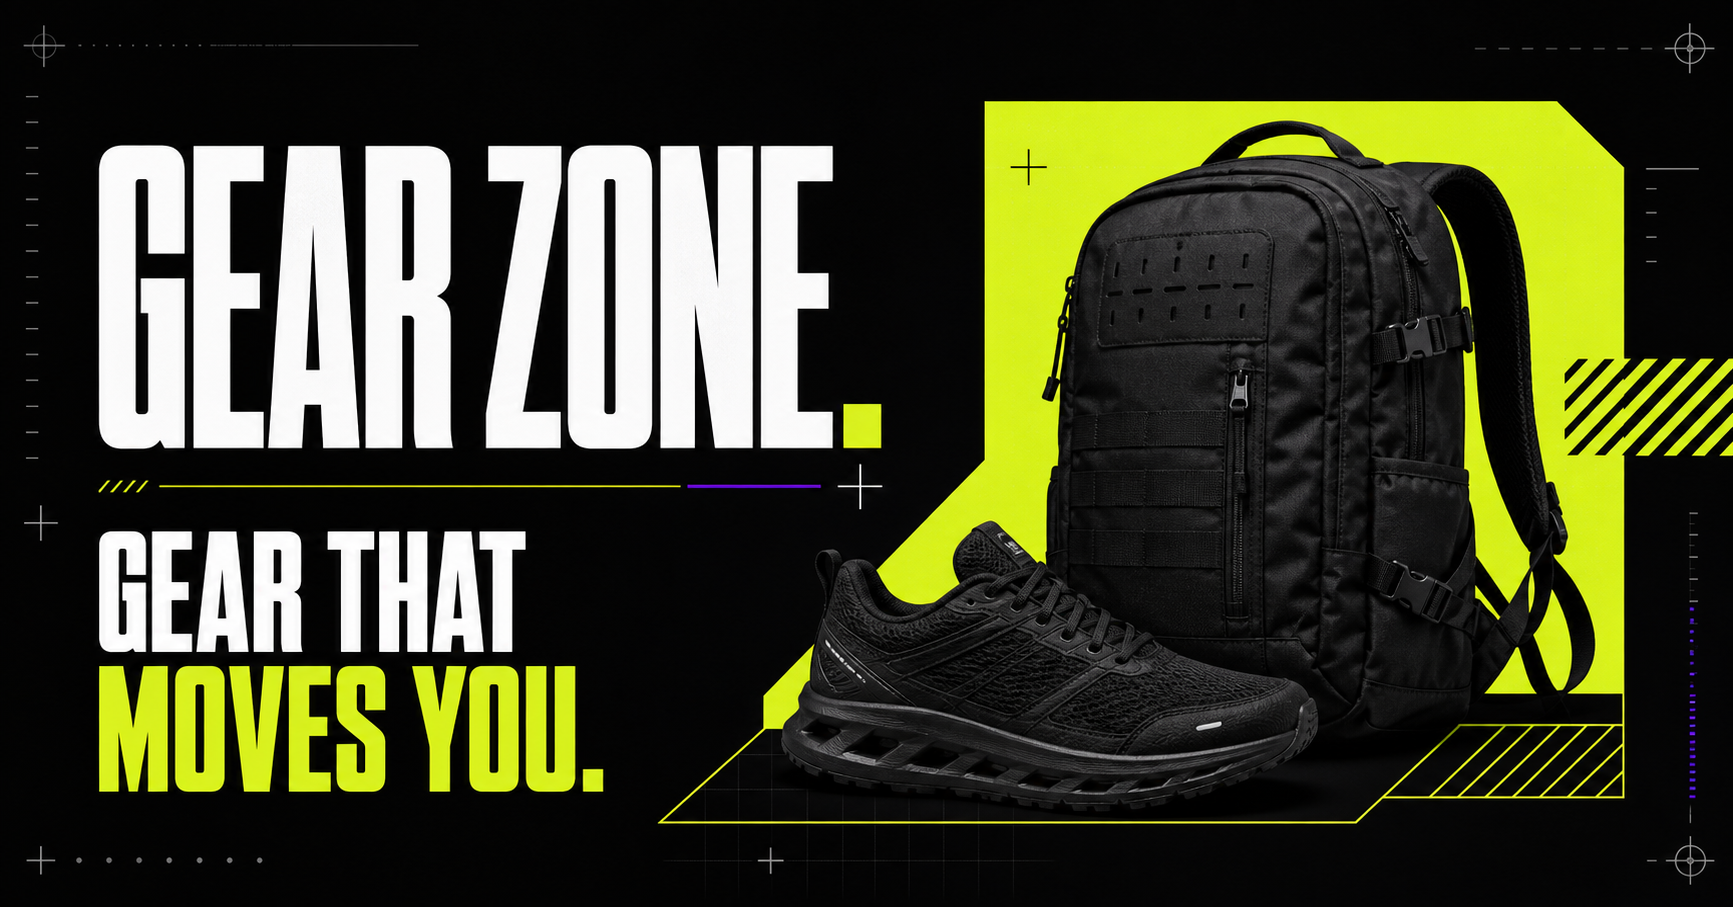
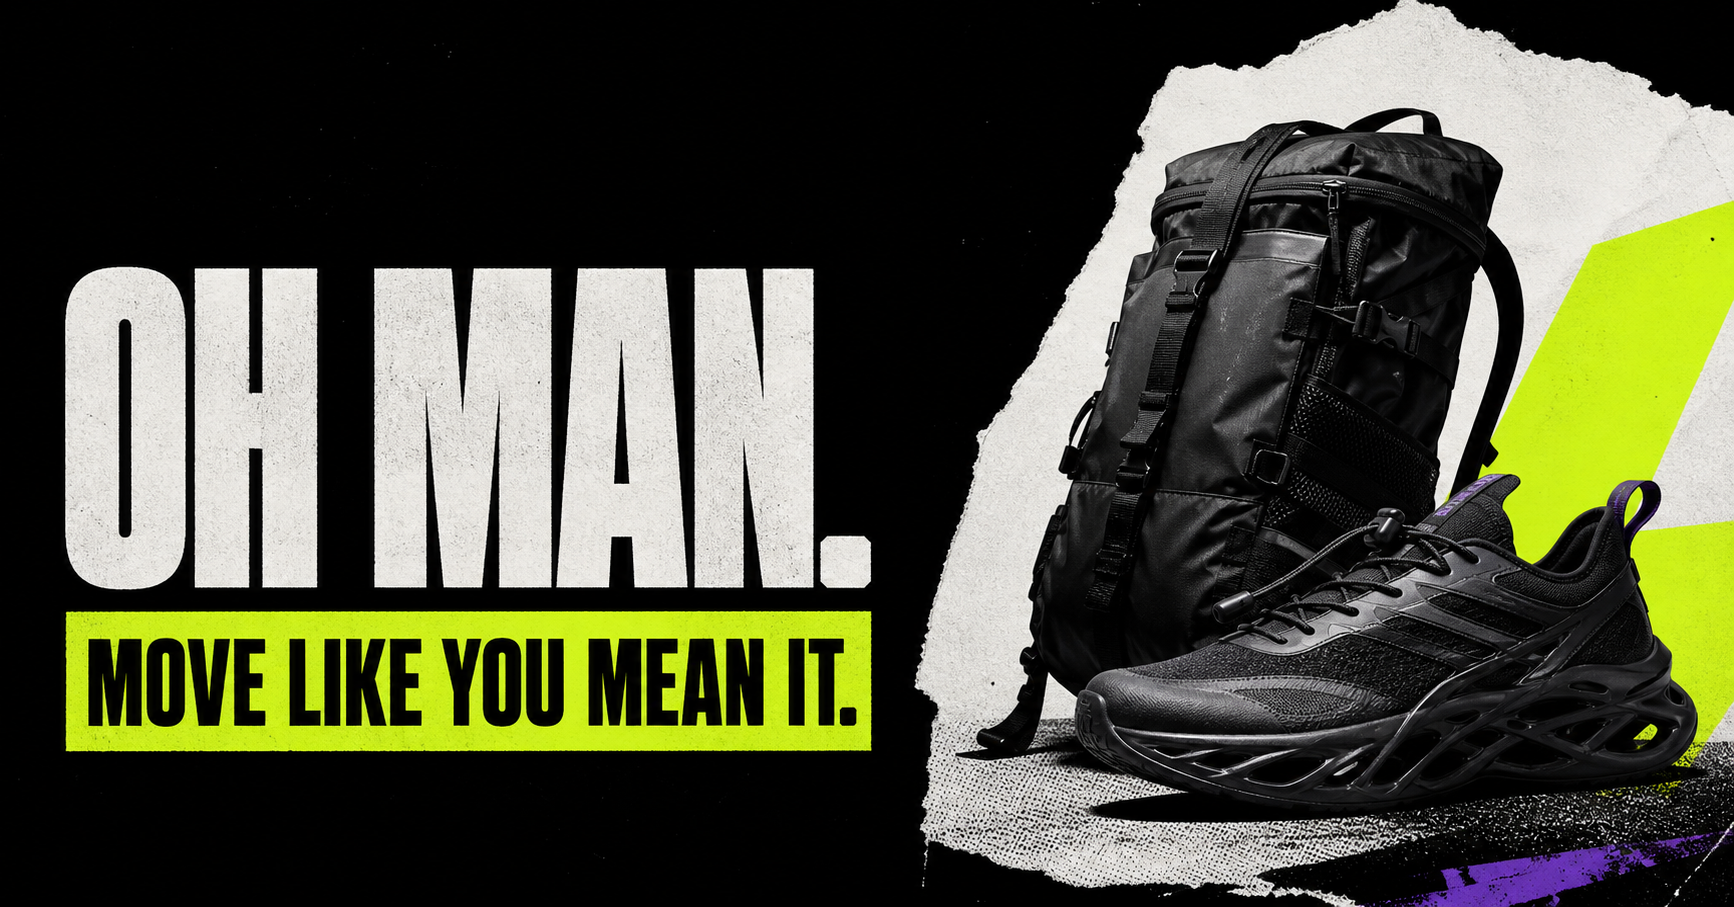
Refresh prototype with Oh Man brutalist identity

diff --git a/src/data/mockData.ts b/src/data/mockData.ts
@@ -1,15 +1,15 @@
 import { Product, Category, BusinessSettings } from '../types';
 
 export const initialCategories: Category[] = [
-  { id: 'cat-1', name: 'Shoes', iconName: 'Footprints', productCount: 42, description: 'High-performance street and trail footwear' },
-  { id: 'cat-2', name: 'Trek Bags', iconName: 'Backpack', productCount: 28, description: 'Rugged ergonomic backpacks for expedition' },
-  { id: 'cat-3', name: 'Travel Bags', iconName: 'Luggage', productCount: 19, description: 'Heavy-duty duffels and weekenders' },
-  { id: 'cat-4', name: 'T-Shirts', iconName: 'Shirt', productCount: 65, description: 'Heavyweight oversized streetwear tops' },
-  { id: 'cat-5', name: 'Corsets', iconName: 'Layers', productCount: 14, description: 'Tactical and technical structured vests' },
-  { id: 'cat-6', name: 'Accessories', iconName: 'Hat', productCount: 37, description: 'Headwear, straps, and utility gear' },
+  { id: 'cat-1', name: 'Shoes', iconName: 'Footprints', productCount: 284, description: 'Built-up soles, trail grip and daily movement.' },
+  { id: 'cat-2', name: 'Trek Bags', iconName: 'Backpack', productCount: 312, description: 'Rugged carry systems for the long way around.' },
+  { id: 'cat-3', name: 'Travel Bags', iconName: 'Luggage', productCount: 228, description: 'Hard-wearing duffels, weekender and transit bags.' },
+  { id: 'cat-4', name: 'T-Shirts', iconName: 'Shirt', productCount: 356, description: 'Heavyweight oversized layers with a point of view.' },
+  { id: 'cat-5', name: 'Corsets', iconName: 'Layers', productCount: 126, description: 'Utility vests and technical structure.' },
+  { id: 'cat-6', name: 'Accessories', iconName: 'Hat', productCount: 194, description: 'Small objects that do the heavy lifting.' },
 ];
 
-export const initialProducts: Product[] = [
+const heroProducts: Product[] = [
   {
     id: 'prod-1',
     name: 'Summit Pro 40L',
@@ -312,15 +312,37 @@ export const initialProducts: Product[] = [
   }
 ];
 
+// The first entries are curated for the mobile experience. The remainder gives
+// the dashboard a realistic 1,500-SKU client-demo catalogue without making the
+// first screen repetitive.
+const collectionNames = ['Field', 'Static', 'Midnight', 'Concrete', 'Signal', 'After Hours', 'North', 'Off Grid'];
+export const initialProducts: Product[] = [
+  ...heroProducts,
+  ...Array.from({ length: 1500 - heroProducts.length }, (_, index) => {
+    const source = heroProducts[index % heroProducts.length];
+    const sequence = String(index + heroProducts.length + 1).padStart(4, '0');
+    const collection = collectionNames[index % collectionNames.length];
+    return {
+      ...source,
+      id: `om-${sequence}`,
+      name: `${collection} ${source.name}`,
+      price: source.price + ((index % 6) * 100),
+      featured: false,
+      createdAt: `2026-07-${String((index % 28) + 1).padStart(2, '0')}`,
+      tag: index % 17 === 0 ? 'NEW DROP' : undefined,
+    };
+  }),
+];
+
 export const demoOrders = [
-  { id: 'GZ-1048', customer: 'Arjun Mehta', item: 'Summit Pro 40L', total: 3499, status: 'PAID', date: '28 Jul 2026' },
-  { id: 'GZ-1047', customer: 'Naina Kapoor', item: 'Velocity Runner 2', total: 3299, status: 'PACKED', date: '28 Jul 2026' },
-  { id: 'GZ-1046', customer: 'Rohan Shah', item: 'Transit Sling 8L', total: 1299, status: 'SHIPPED', date: '27 Jul 2026' },
-  { id: 'GZ-1045', customer: 'Mira Desai', item: 'Heavyweight Logo Tee', total: 1099, status: 'DELIVERED', date: '27 Jul 2026' },
-  { id: 'GZ-1044', customer: 'Kabir Rao', item: 'Expedition Duffel 80L', total: 3899, status: 'PAID', date: '26 Jul 2026' },
-  { id: 'GZ-1043', customer: 'Ishita Sen', item: 'Utility Chest Rig', total: 1899, status: 'PACKED', date: '26 Jul 2026' },
-  { id: 'GZ-1042', customer: 'Dev Malhotra', item: 'Terra Grip Trail', total: 4199, status: 'SHIPPED', date: '25 Jul 2026' },
-  { id: 'GZ-1041', customer: 'Anika Jain', item: 'Metro Weekender', total: 3199, status: 'DELIVERED', date: '24 Jul 2026' },
+  { id: 'OM-1048', customer: 'Arjun Mehta', item: 'Summit Pro 40L', total: 3499, status: 'PAID', date: '28 Jul 2026' },
+  { id: 'OM-1047', customer: 'Naina Kapoor', item: 'Velocity Runner 2', total: 3299, status: 'PACKED', date: '28 Jul 2026' },
+  { id: 'OM-1046', customer: 'Rohan Shah', item: 'Transit Sling 8L', total: 1299, status: 'SHIPPED', date: '27 Jul 2026' },
+  { id: 'OM-1045', customer: 'Mira Desai', item: 'Heavyweight Logo Tee', total: 1099, status: 'DELIVERED', date: '27 Jul 2026' },
+  { id: 'OM-1044', customer: 'Kabir Rao', item: 'Expedition Duffel 80L', total: 3899, status: 'PAID', date: '26 Jul 2026' },
+  { id: 'OM-1043', customer: 'Ishita Sen', item: 'Utility Chest Rig', total: 1899, status: 'PACKED', date: '26 Jul 2026' },
+  { id: 'OM-1042', customer: 'Dev Malhotra', item: 'Terra Grip Trail', total: 4199, status: 'SHIPPED', date: '25 Jul 2026' },
+  { id: 'OM-1041', customer: 'Anika Jain', item: 'Metro Weekender', total: 3199, status: 'DELIVERED', date: '24 Jul 2026' },
 ];
 
 export const demoContacts = [
@@ -360,15 +382,15 @@ export const demoBanners = [
 ];
 
 export const initialBusinessSettings: BusinessSettings = {
-  name: 'GEAR ZONE.',
-  tagline: 'GEAR THAT MOVES YOU.',
+  name: 'OH MAN.',
+  tagline: 'MOVE LIKE YOU MEAN IT.',
   phone: '+91 98765 43210',
   whatsapp: '+91 98765 43210',
-  email: 'hello@gearzone.in',
-  website: 'https://gearzone.in',
-  address: '123, Adventure Street, Mumbai, India - 400001',
-  instagram: 'gearzone.offcl',
-  facebook: 'gearzone.official',
-  youtube: 'gearzonetv',
+  email: 'hello@ohman.in',
+  website: 'https://ohman.in',
+  address: '47, Studio Lane, Bandra West, Mumbai, India - 400050',
+  instagram: 'ohman.world',
+  facebook: 'ohman.world',
+  youtube: 'ohmantv',
   currency: '₹'
 };

diff --git a/src/components/mobile/MobileSimulator.tsx b/src/components/mobile/MobileSimulator.tsx
@@ -125,7 +125,7 @@ export const MobileSimulator: React.FC<MobileSimulatorProps> = ({
   return (
     <div className="flex h-full items-center justify-center">
       <div
-        className="mobile-shell relative flex w-[390px] max-w-[calc(100vw-20px)] flex-col overflow-hidden rounded-[26px] border-[5px] border-[#252525] bg-[#090909] shadow-[0_24px_70px_rgba(0,0,0,.55)]"
+        className="mobile-shell relative flex w-[390px] max-w-[calc(100vw-20px)] flex-col overflow-hidden rounded-[26px] border-[5px] border-[#252525] bg-[#090909] shadow-[8px_8px_0_#D9FF3F,0_24px_70px_rgba(0,0,0,.55)]"
         style={{ height: 'min(800px, calc(100dvh - 76px))', minHeight: 570 }}
       >
         <div className="relative z-50 flex h-7 flex-none items-center justify-between bg-[#090909] px-4 text-[10px] font-semibold text-white">
@@ -146,27 +146,26 @@ export const MobileSimulator: React.FC<MobileSimulatorProps> = ({
 
             <div className="relative z-30 flex items-start justify-between">
               <h1 className="font-bebas text-[54px] leading-[0.83] tracking-[-0.02em] text-white">
-                GEAR
+                OH
                 <br />
-                THAT
+                MAN.
                 <br />
-                MOVES
+                MOVE
                 <br />
-                YOU.
+                LOUD.
               </h1>
-              <div className="mt-1 text-right font-mono text-sm leading-4 text-[#4a4a4a]">
-                +&nbsp;&nbsp;+
-                <br />
-                +&nbsp;&nbsp;+
+              <div className="om-stamp mt-1 bg-[#f4f2eb] px-1.5 py-1 text-right font-mono text-[8px] leading-3 text-black">
+                EST. 2026<br />
+                / OM-001 /
               </div>
             </div>
 
             <p className="relative z-30 mt-5 max-w-[154px] text-[10px] font-medium leading-[1.35] text-[#c5c5c5]">
-              Premium essentials,
+              Objects for motion,
               <br />
-              built for adventure,
+              built with intent,
               <br />
-              designed for you.
+              made for your day.
             </p>
 
             {heroProduct && (
@@ -178,7 +177,7 @@ export const MobileSimulator: React.FC<MobileSimulatorProps> = ({
             <button
               type="button"
               onClick={() => navigate('home')}
-              className="relative z-30 mt-auto flex w-fit items-center gap-2 border border-black bg-[#cbff16] px-3 py-2 font-bebas text-sm tracking-wide text-black shadow-[3px_3px_0_#fff]"
+              className="relative z-30 mt-auto flex w-fit items-center gap-2 border-2 border-black bg-[#cbff16] px-3 py-2 font-bebas text-sm tracking-wide text-black shadow-[4px_4px_0_#f4f2eb]"
             >
               EXPLORE NOW
               <ArrowUpRight className="h-4 w-4" strokeWidth={2.7} />
@@ -319,10 +318,11 @@ export const MobileSimulator: React.FC<MobileSimulatorProps> = ({
                   {activeTab === 'home' && (
                     <div className="space-y-4 px-3 pb-5 pt-2">
                       <div>
+                        <p className="mb-1 font-mono text-[8px] tracking-[0.18em] text-[#cbff16]">ISSUE 01 / 1500 OBJECTS</p>
                         <h1 className="font-bebas text-[34px] leading-[0.86] tracking-[-0.01em] text-white">
-                          DISCOVER
+                          THE DAILY
                           <br />
-                          <span className="text-[#cbff16]">OUR RANGE</span>
+                          <span className="text-[#cbff16]">UNIFORM.</span>
                         </h1>
                       </div>
 
@@ -519,17 +519,17 @@ export const MobileSimulator: React.FC<MobileSimulatorProps> = ({
                       <div className="border border-[#303030] bg-[#151515] p-4">
                         <div className="flex items-center gap-3">
                           <div className="flex h-12 w-12 items-center justify-center bg-[#cbff16] font-bebas text-xl text-black">
-                            GZ
+                            OM
                           </div>
                           <div>
-                            <h1 className="font-bebas text-2xl text-white">GEAR MEMBER</h1>
+                            <h1 className="font-bebas text-2xl text-white">OH MAN MEMBER</h1>
                             <p className="font-mono text-[8px] text-[#cbff16]">ADVENTURE CLUB / 2026</p>
                           </div>
                         </div>
                       </div>
                       <div className="border border-[#303030] bg-[#151515] p-4">
                         <div className="flex items-center justify-between">
-                          <span className="font-bebas text-sm text-white">SAVED GEAR</span>
+                          <span className="font-bebas text-sm text-white">SAVED OBJECTS</span>
                           <span className="font-mono text-xs text-[#cbff16]">{wishlist.length}</span>
                         </div>
                         <div className="mt-3 space-y-2">
@@ -664,7 +664,7 @@ function ProductGrid({
         {!products.length && (
           <div className="col-span-2 flex min-h-36 flex-col items-center justify-center border border-dashed border-[#333] text-[#777]">
             <PackageSearch className="mb-2 h-7 w-7" />
-            <span className="font-mono text-[9px]">NO GEAR FOUND</span>
+            <span className="font-mono text-[9px]">NO OBJECTS FOUND</span>
           </div>
         )}
       </div>

diff --git a/src/components/dashboard/DashboardView.tsx b/src/components/dashboard/DashboardView.tsx
@@ -93,15 +93,15 @@ export const DashboardView: React.FC<DashboardViewProps> = ({
 
   return (
     <div className="flex h-full min-h-0 overflow-hidden bg-[#0B0B0B] font-sans text-white">
-      <aside className="z-20 hidden w-52 flex-none flex-col justify-between border-r border-[#292929] bg-[#0B0B0B] p-3 md:flex">
+      <aside className="z-20 hidden w-52 flex-none flex-col justify-between border-r-2 border-[#292929] bg-[#0B0B0B] p-3 md:flex">
         <div>
-          <div className="flex items-start justify-between border-b border-[#262626] pb-5 pt-2">
+          <div className="flex items-start justify-between border-b-2 border-[#262626] pb-5 pt-2">
             <h1 className="font-bebas text-[25px] leading-[0.82] tracking-wide text-white">
-              GEAR
+              OH
               <br />
-              ZONE.
+              MAN.
             </h1>
-            <span className="pt-1 font-mono text-sm leading-3 text-[#565656]">⋮</span>
+            <span className="om-stamp mt-1 bg-[#d9ff3f] px-1 font-mono text-[7px] leading-3 text-black">OM<br/>SYS</span>
           </div>
 
           <nav className="mt-5 space-y-1">
@@ -175,11 +175,12 @@ export const DashboardView: React.FC<DashboardViewProps> = ({
       {/* MAIN CONTENT AREA */}
       <main className="flex min-w-0 flex-1 flex-col overflow-hidden bg-[#0B0B0B]">
         {/* Top Navbar */}
-        <header className="z-10 flex h-14 flex-none items-center justify-between border-b border-[#292929] bg-[#0B0B0B] px-4 lg:px-5">
+        <header className="z-10 flex h-14 flex-none items-center justify-between border-b-2 border-[#292929] bg-[#0B0B0B] px-4 lg:px-5">
           <div className="flex items-center space-x-4">
             <h2 className="font-bebas text-[26px] uppercase tracking-wider text-white">
               {activeTab}
             </h2>
+            <span className="hidden border border-[#363636] px-2 py-1 font-mono text-[8px] text-textGray sm:inline">CATALOGUE / ISSUE 01</span>
           </div>
 
           <div className="flex items-center space-x-3">
@@ -198,20 +199,20 @@ export const DashboardView: React.FC<DashboardViewProps> = ({
             <div className="space-y-5">
               {/* Stat Cards Grid */}
               <div className="grid grid-cols-2 gap-2 xl:grid-cols-4 xl:gap-3">
-                <div className="flex items-center justify-between border border-[#303030] bg-[#111] p-3">
+                <div className="flex items-center justify-between border-2 border-[#303030] bg-[#111] p-3 shadow-[3px_3px_0_#1d1d1d]">
                   <div>
                     <span className="text-[10px] font-mono text-textGray uppercase block">TOTAL PRODUCTS</span>
-                    <span className="font-bebas text-[34px] font-bold text-white">245</span>
+                    <span className="font-bebas text-[34px] font-bold text-white">{products.length.toLocaleString()}</span>
                   </div>
                   <div className="flex h-9 w-9 items-center justify-center text-[#D9FF3F]">
                     <Package className="w-6 h-6" />
                   </div>
                 </div>
 
-                <div className="flex items-center justify-between border border-[#303030] bg-[#111] p-3">
+                <div className="flex items-center justify-between border-2 border-[#303030] bg-[#111] p-3 shadow-[3px_3px_0_#1d1d1d]">
                   <div>
                     <span className="text-[10px] font-mono text-textGray uppercase block">CATEGORIES</span>
-                    <span className="font-bebas text-[34px] font-bold text-white">18</span>
+                    <span className="font-bebas text-[34px] font-bold text-white">06</span>
                   </div>
                   <div className="flex h-9 w-9 items-center justify-center text-[#D9FF3F]">
                     <Grid className="w-6 h-6" />

diff --git a/src/App.tsx b/src/App.tsx
@@ -52,28 +52,28 @@ export function App() {
     return (
       <div className="flex h-screen flex-col items-center justify-center space-y-4 bg-[#0B0B0B]">
         <div className="flex h-16 w-16 items-center justify-center border-2 border-black bg-[#D9FF3F] font-bebas text-3xl text-black shadow-[4px_4px_0px_#000] animate-bounce">
-          GZ
+          OM
         </div>
         <span className="font-bebas text-lg tracking-[0.18em] text-white animate-pulse">
-          LOADING THE RANGE...
+          LOADING OH MAN...
         </span>
       </div>
     );
   }
 
   return (
-    <div className="flex h-[100dvh] flex-col overflow-hidden bg-[#0B0B0B]">
-      <header className="z-50 flex h-11 flex-shrink-0 items-center justify-between border-b border-[#303030] bg-[#0c0c0c] px-3 sm:px-4">
+    <div className="flex h-[100dvh] flex-col overflow-hidden bg-[#0B0B0B] om-shell">
+      <header className="z-50 flex h-12 flex-shrink-0 items-center justify-between border-b-2 border-black bg-[#f4f2eb] px-3 text-black sm:px-4">
         <div className="flex items-center gap-2">
-          <span className="flex h-6 w-6 items-center justify-center bg-[#D9FF3F] font-bebas text-[11px] text-black">
-            GZ
+          <span className="flex h-7 w-7 items-center justify-center border border-black bg-[#D9FF3F] font-bebas text-[12px] text-black shadow-[2px_2px_0_#000]">
+            OM
           </span>
-          <span className="hidden font-bebas text-sm tracking-[0.12em] text-white sm:inline">
-            GEAR ZONE / CATALOGUE SYSTEM
+          <span className="hidden font-bebas text-base tracking-[0.1em] text-black sm:inline">
+            OH MAN. / PRODUCT ARCHIVE
           </span>
         </div>
 
-        <div className="flex items-center gap-0.5 border border-[#303030] bg-black p-0.5">
+          <div className="flex items-center gap-0.5 border-2 border-black bg-black p-0.5 shadow-[2px_2px_0_#000]">
           <button
             onClick={() => setViewMode('split')}
             className={`hidden items-center gap-1 px-2 py-1 font-bebas text-[10px] tracking-wider transition-colors lg:flex ${

diff --git a/index.html b/index.html
@@ -6,10 +6,10 @@
     <meta name="theme-color" content="#0B0B0B" />
     <meta
       name="description"
-      content="Gear Zone is a bold mobile product catalogue and web CMS for premium outdoor and streetwear essentials."
+      content="Oh Man is a bold mobile product catalogue and web CMS for movement, utility and everyday objects."
     />
     <meta property="og:type" content="website" />
-    <meta property="og:title" content="GEAR ZONE. — Gear That Moves You." />
+    <meta property="og:title" content="OH MAN. — Move Like You Mean It." />
     <meta
       property="og:description"
       content="Explore the mobile catalogue and connected product management dashboard."
@@ -17,13 +17,13 @@
     <meta property="og:url" content="https://gear-zone-ohman.itsaliasgar18.chatgpt.site" />
     <meta property="og:image" content="https://gear-zone-ohman.itsaliasgar18.chatgpt.site/og.png" />
     <meta name="twitter:card" content="summary_large_image" />
-    <meta name="twitter:title" content="GEAR ZONE. — Gear That Moves You." />
+    <meta name="twitter:title" content="OH MAN. — Move Like You Mean It." />
     <meta
       name="twitter:description"
       content="Explore the mobile catalogue and connected product management dashboard."
     />
     <meta name="twitter:image" content="https://gear-zone-ohman.itsaliasgar18.chatgpt.site/og.png" />
-    <title>GEAR ZONE. — Product Catalogue & CMS</title>
+    <title>OH MAN. — Product Catalogue & CMS</title>
     <link rel="preconnect" href="https://fonts.googleapis.com">
     <link rel="preconnect" href="https://fonts.gstatic.com" crossorigin>
     <link href="https://fonts.googleapis.com/css2?family=Bebas+Neue&family=Space+Grotesk:wght@400;500;600;700&display=swap" rel="stylesheet">

diff --git a/src/index.css b/src/index.css
@@ -1,4 +1,4 @@
-@import url('https://fonts.googleapis.com/css2?family=Bebas+Neue&family=Space+Grotesk:wght@400;500;600;700&family=JetBrains+Mono:wght@400;600;700&display=swap');
+@import url('https://fonts.googleapis.com/css2?family=Bebas+Neue&family=DM+Mono:wght@400;500&family=Space+Grotesk:wght@400;500;600;700&display=swap');
 
 @tailwind base;
 @tailwind components;
@@ -15,6 +15,7 @@
   body {
     @apply m-0 bg-[#0B0B0B] font-sans text-white selection:bg-[#D9FF3F] selection:text-black;
     min-width: 320px;
+    background-image: radial-gradient(circle at 78% 12%, rgba(217, 255, 63, 0.08), transparent 24rem);
   }
 
   button,
@@ -68,6 +69,10 @@
   letter-spacing: 0.05em;
 }
 
+.font-mono {
+  font-family: 'DM Mono', monospace;
+}
+
 .scrollbar-none {
   -ms-overflow-style: none;
   scrollbar-width: none;
@@ -90,6 +95,36 @@
     rgba(255, 255, 255, 0.32) 11px,
     rgba(255, 255, 255, 0.32) 17px
   );
+}
+
+/* Oh Man: imperfectly precise, deliberately loud. */
+.om-shell::before {
+  position: fixed;
+  z-index: 60;
+  top: 0;
+  right: 10px;
+  width: 62px;
+  height: 3px;
+  background: #d9ff3f;
+  content: '';
+}
+
+.om-shell main h2 {
+  letter-spacing: 0.08em;
+}
+
+.om-stamp {
+  border: 2px solid #0b0b0b;
+  box-shadow: 3px 3px 0 #0b0b0b;
+  transform: rotate(-3deg);
+}
+
+.om-cut {
+  clip-path: polygon(0 0, 100% 0, 100% 84%, 86% 100%, 0 100%);
+}
+
+.om-rule {
+  background: repeating-linear-gradient(90deg, #d9ff3f 0 16px, transparent 16px 21px);
 }
 
 .cross-grid {
